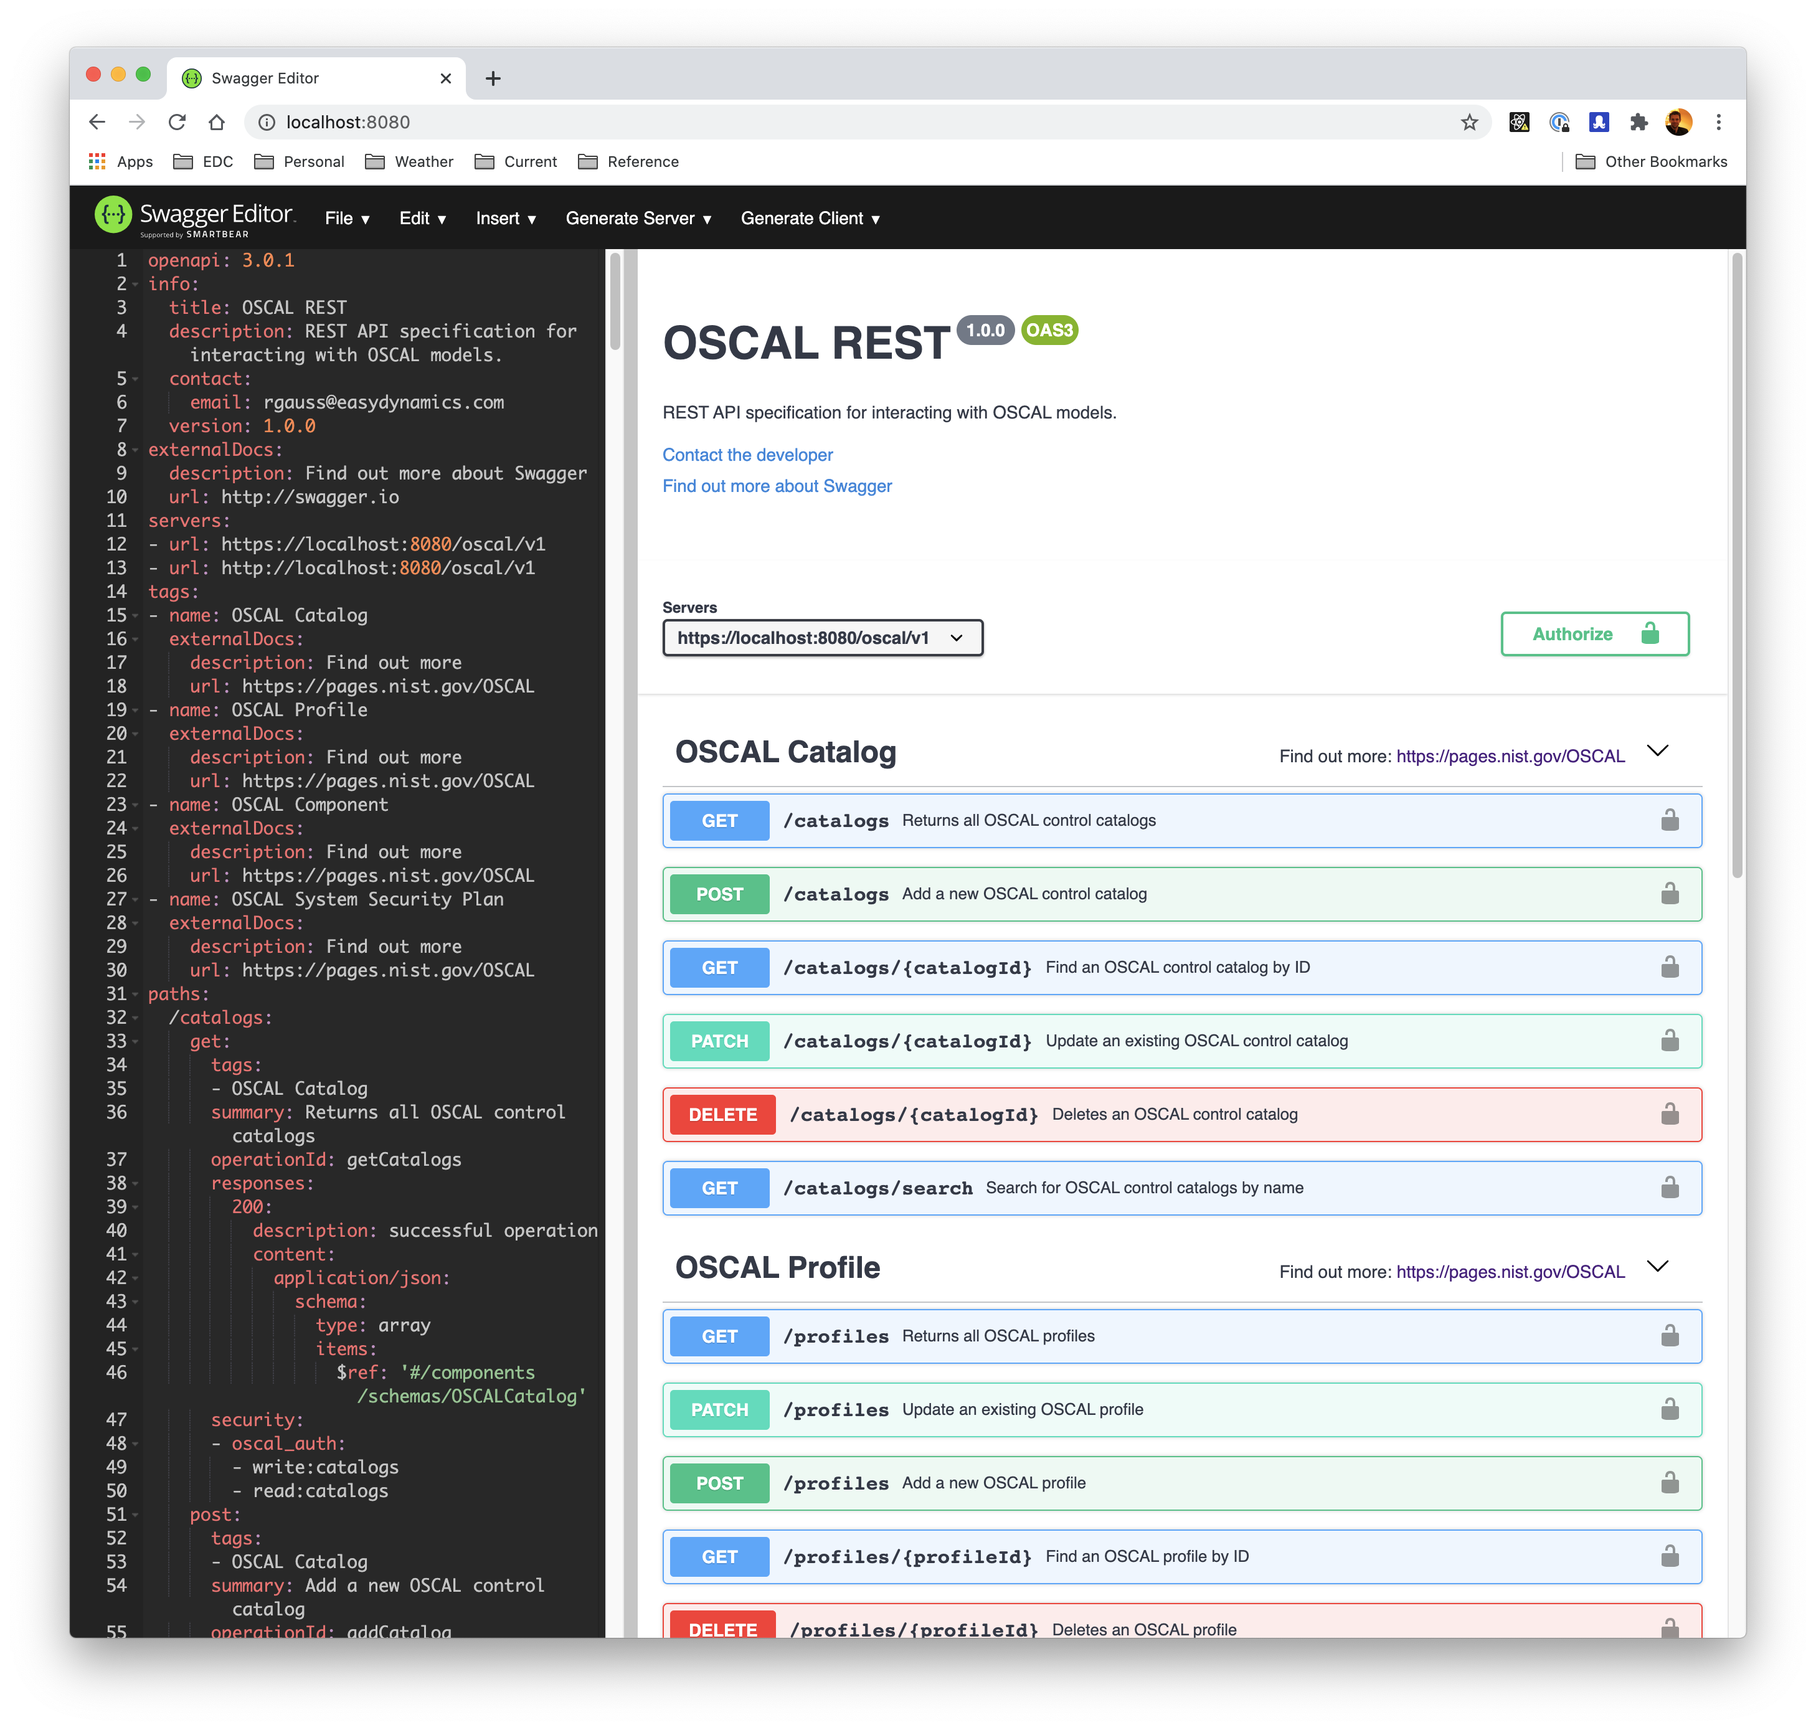
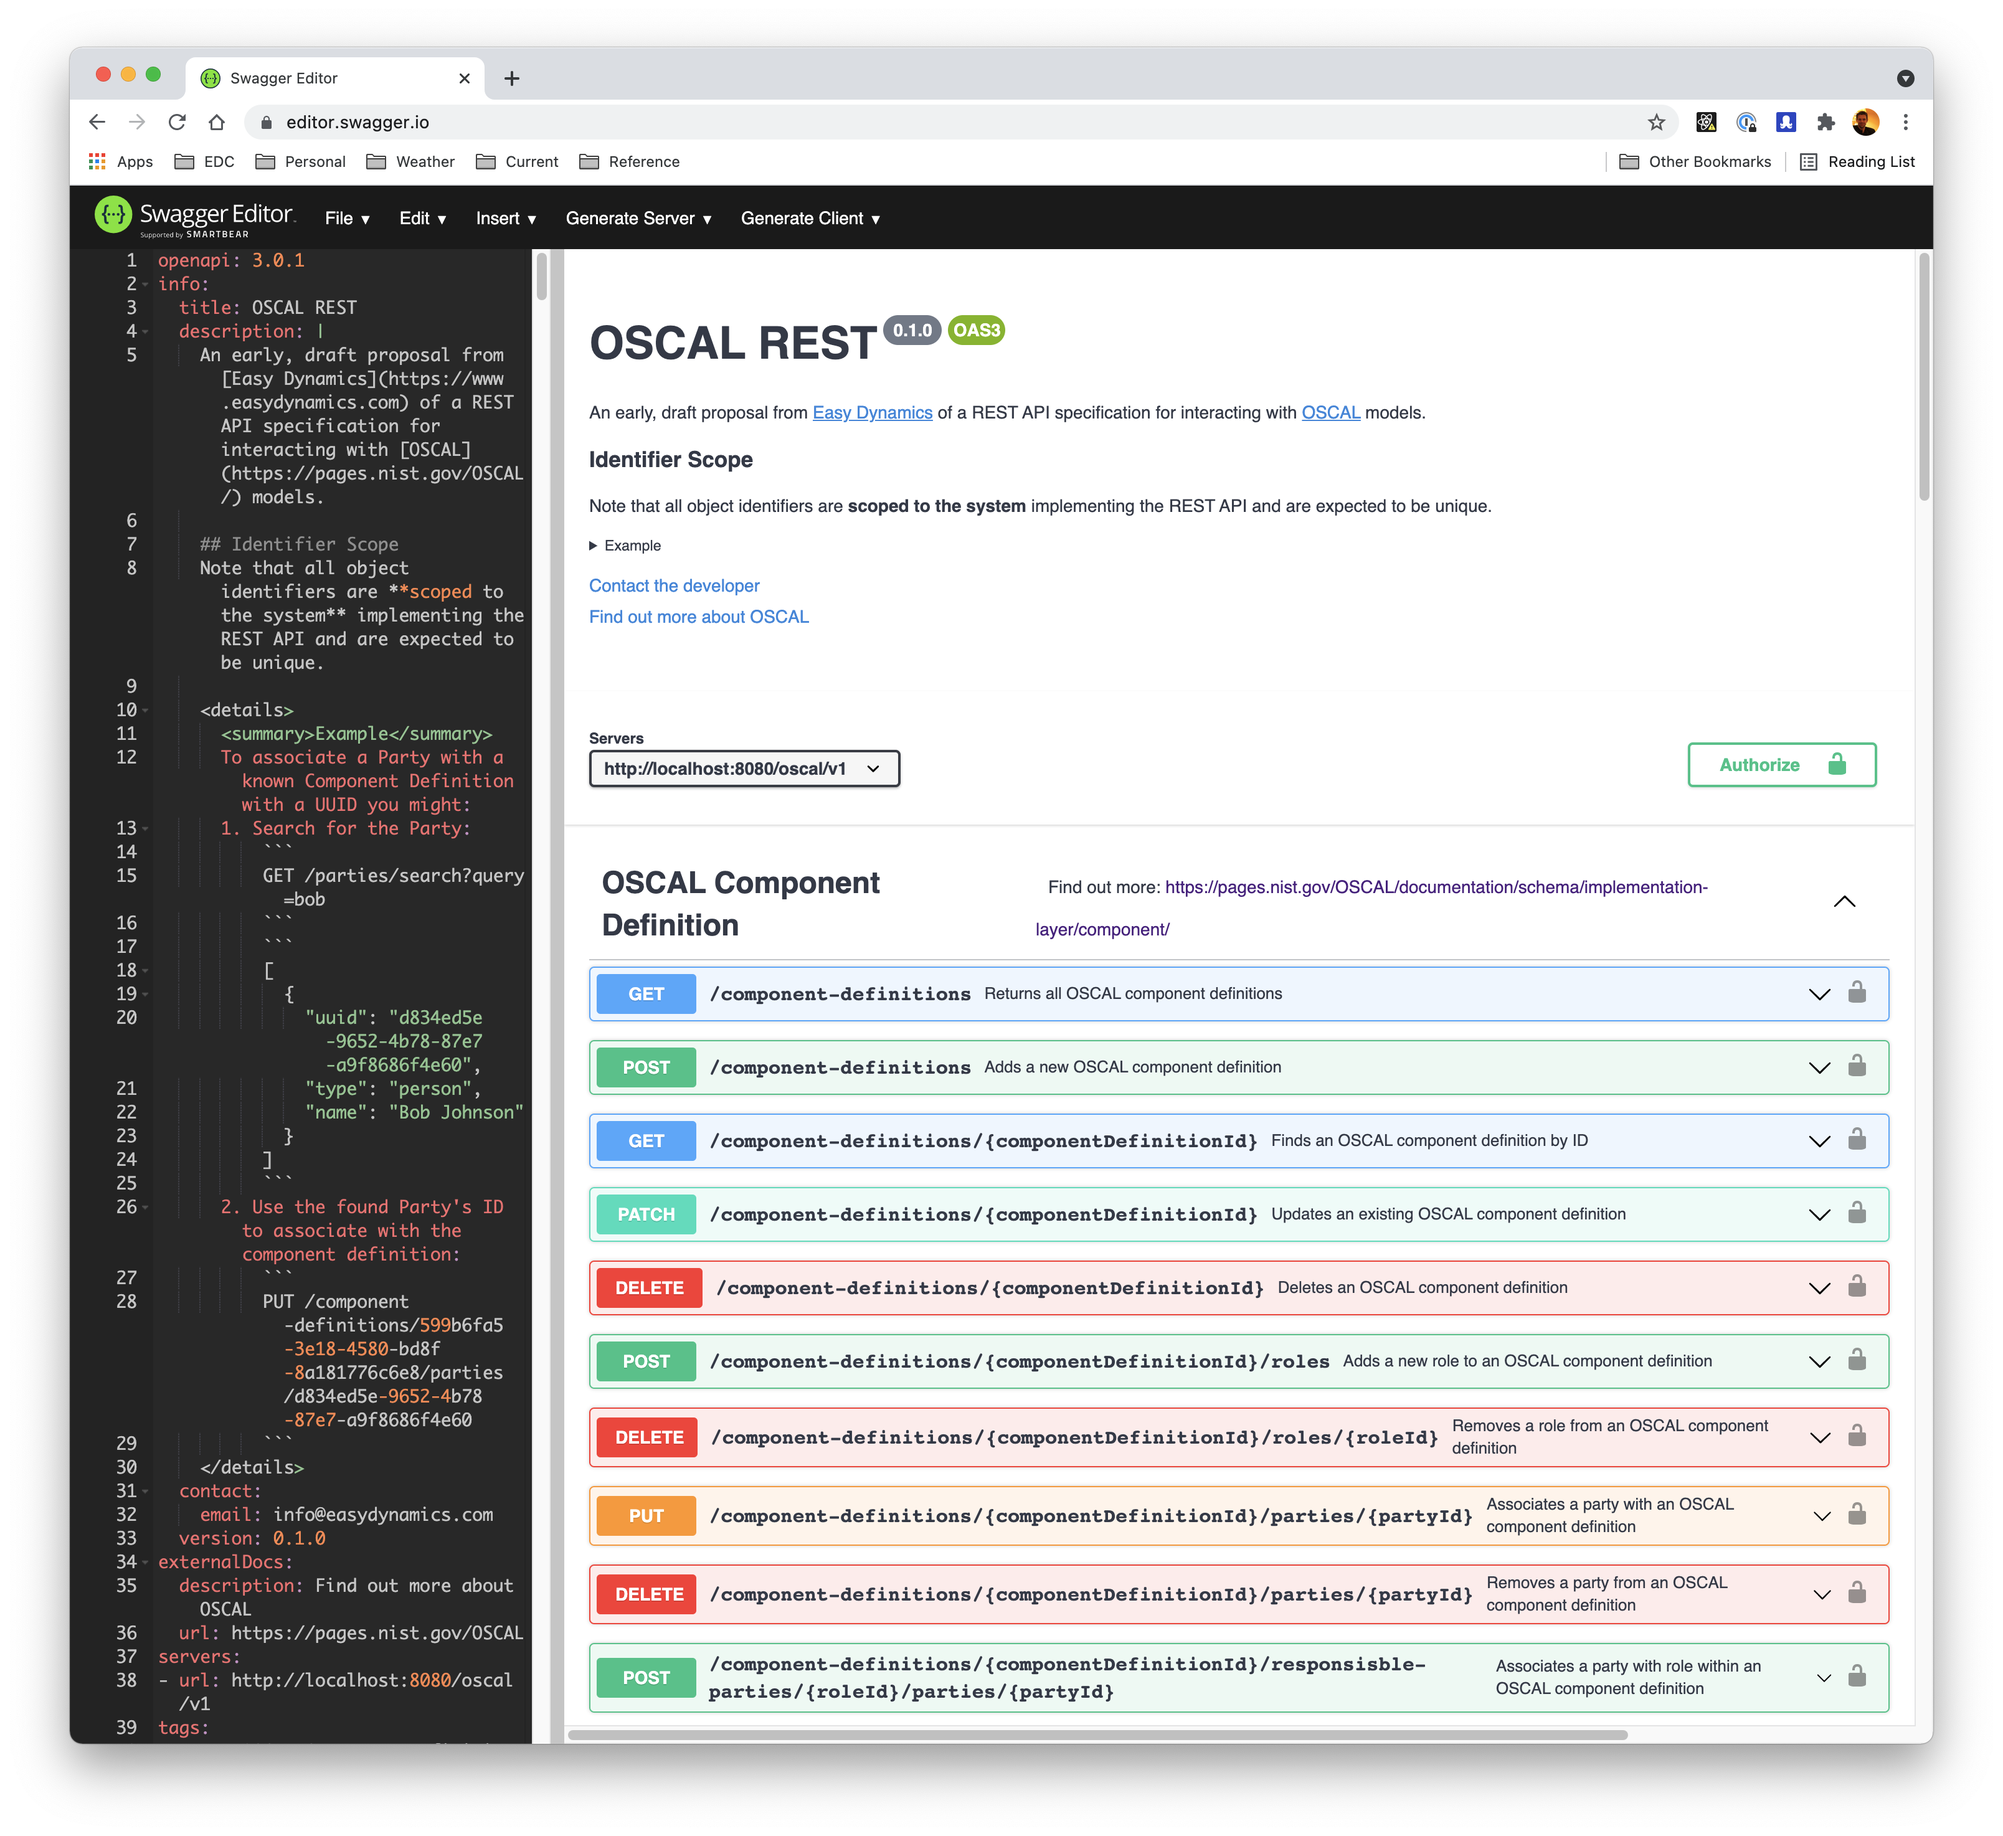
Improved description, fixed party and role schemas, updated screenshot

Changed region(s): [[0.0312, 0.031, 0.9674, 0.9597]]

diff --git a/README.md b/README.md
@@ -1,7 +1,8 @@
 # OSCAL REST API Definition
 
-An initial [OpenAPI](https://www.openapis.org/) definition of an [OSCAL REST API](https://pages.nist.gov/OSCAL/).
-
+An early, draft proposal from [Easy Dynamics](https://www.easydynamics.com) of an [OpenAPI](https://www.openapis.org/) REST specification for interacting with [OSCAL](https://pages.nist.gov/OSCAL/) models.
+    
+## Viewing / Editing
 You can use a Swagger Editor, [local](https://github.com/swagger-api/swagger-editor) (Docker works great) or [online](https://editor.swagger.io/?url=https://raw.githubusercontent.com/EasyDynamics/oscal-rest/develop/openapi.yaml) to view the specification:
 
 ![OSCSAL REST Swagger Screenshot](docs/resources/swagger-editor-oscal-screenshot.png)
